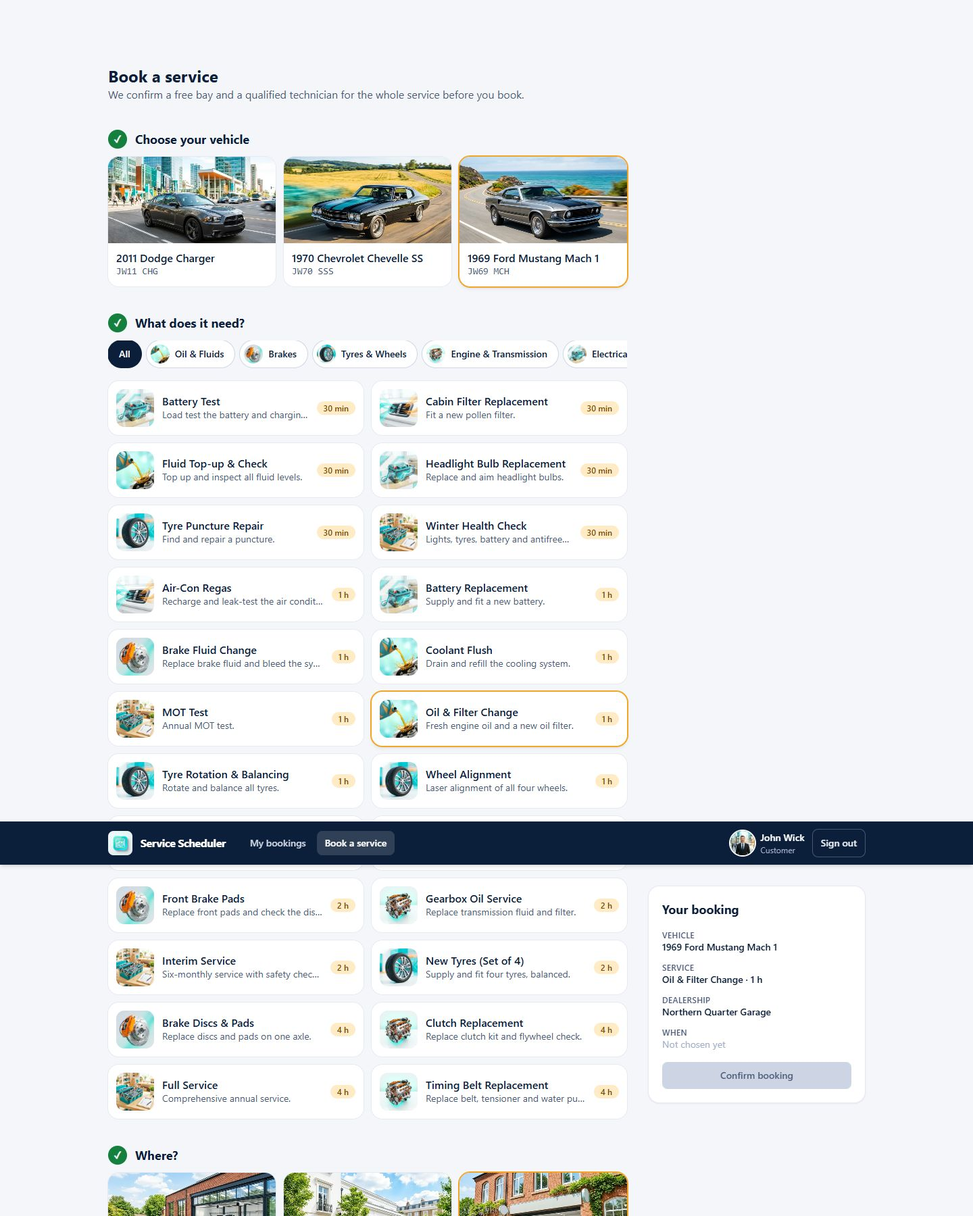
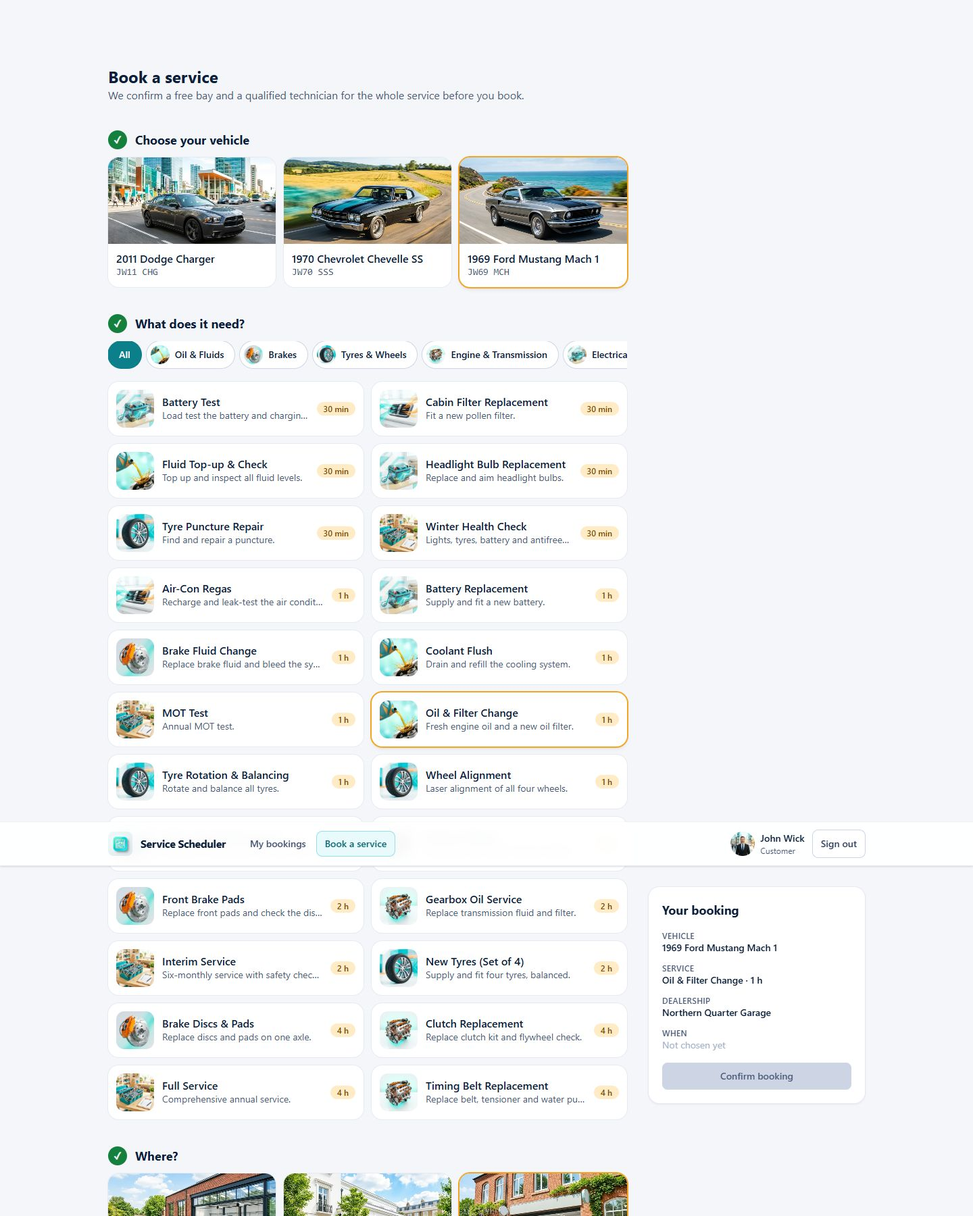
Light interface to match the bright photos; sign-in rules shown once; UI run repeatable (102 checks); docs and evidence

diff --git a/frontend/src/pages/Login.tsx b/frontend/src/pages/Login.tsx
@@ -35,12 +35,11 @@ export function Login() {
 
   return (
     <div className="grid min-h-screen lg:grid-cols-2">
-      <div className="relative hidden bg-ink-900 lg:block">
+      <div className="relative hidden bg-teal-50 lg:block">
         <Img k="app-hero" alt="A bright modern car workshop with mechanics and a booking calendar" className="absolute inset-0 size-full" />
-        <div className="absolute inset-x-0 bottom-0 h-3/5 bg-linear-to-t from-ink-900/85 via-ink-900/45 to-transparent" />
-        <div className="absolute inset-x-0 bottom-0 p-10 text-white">
-          <h2 className="max-w-md text-3xl font-bold leading-tight">A bay and a qualified technician, confirmed before you book.</h2>
-          <p className="mt-3 max-w-md text-ink-200">
+        <div className="absolute inset-x-8 bottom-8 max-w-lg rounded-2xl bg-white/90 p-6 text-ink-900 shadow-lg ring-1 ring-white backdrop-blur">
+          <h2 className="text-2xl font-bold leading-tight">A bay and a qualified technician, confirmed before you book.</h2>
+          <p className="mt-2 text-ink-700">
             No more phone tag. Pick your vehicle, the service and a time, and see instantly what the dealership can serve.
           </p>
         </div>
@@ -50,8 +49,7 @@ export function Login() {
         {/* Phones and tablets get their own portrait picture as a banner; wide screens use the large picture on the left. */}
         <div className="relative h-52 w-full overflow-hidden sm:h-64 lg:hidden">
           <Img k="app-hero-mobile" alt="A friendly mechanic in a bright modern workshop" className="size-full object-[50%_30%]" />
-          <div className="absolute inset-x-0 bottom-0 h-1/2 bg-linear-to-t from-ink-900/70 to-transparent" />
-          <p className="absolute inset-x-0 bottom-0 px-6 pb-4 text-lg font-bold leading-snug text-white sm:text-xl">
+          <p className="absolute inset-x-3 bottom-3 rounded-xl bg-white/90 px-4 py-2.5 text-base font-bold leading-snug text-ink-900 shadow backdrop-blur sm:inset-x-6 sm:bottom-4 sm:text-lg">
             A bay and a qualified technician, confirmed before you book.
           </p>
         </div>
@@ -145,8 +143,6 @@ export function Login() {
             </h2>
             <ul className="list-disc space-y-1.5 pl-5">
               <li>Customers and staff sign in on this page. Customers go to My bookings, staff to All bookings.</li>
-              <li>Username: up to {LIMITS.username} characters, case sensitive.</li>
-              <li>Password: up to {LIMITS.password} characters, case sensitive, and no spaces (no tabs or line breaks either).</li>
               <li>You stay signed in for 8 hours. On a shared computer, use Sign out when you finish.</li>
               <li>This is a demo: accounts are fixed and cannot be created, changed or reset here. The demo accounts are listed in the project README.</li>
             </ul>

diff --git a/frontend/src/components/Layout.tsx b/frontend/src/components/Layout.tsx
@@ -4,7 +4,7 @@ import { Avatar, Badge, Img } from './ui';
 
 const navClass = ({ isActive }: { isActive: boolean }) =>
   `rounded-lg px-3 py-2 text-sm font-semibold transition-colors ${
-    isActive ? 'bg-white/15 text-white' : 'text-ink-200 hover:bg-white/10 hover:text-white'
+    isActive ? 'bg-teal-50 text-teal-800 ring-1 ring-teal-200' : 'text-ink-600 hover:bg-ink-100 hover:text-ink-900'
   }`;
 
 export function Layout() {
@@ -13,7 +13,7 @@ export function Layout() {
 
   return (
     <div className="min-h-screen">
-      <header className="sticky top-0 z-20 bg-ink-900 text-white shadow-md">
+      <header className="sticky top-0 z-20 border-b border-ink-100 bg-white/95 text-ink-900 shadow-sm backdrop-blur">
         <div className="mx-auto flex max-w-6xl flex-wrap items-center gap-x-6 gap-y-2 px-4 py-3">
           <NavLink to="/" className="flex items-center gap-3">
             <Img k="app-logo" alt="" className="size-9 rounded-lg" />
@@ -36,7 +36,7 @@ export function Layout() {
               <Avatar k={user.imageKey} name={user.displayName} size={36} />
               <div className="hidden leading-tight sm:block">
                 <div className="text-sm font-semibold">{user.displayName}</div>
-                <div className="text-xs text-ink-300">{user.role === 'staff' ? 'Staff' : 'Customer'}</div>
+                <div className="text-xs text-ink-500">{user.role === 'staff' ? 'Staff' : 'Customer'}</div>
               </div>
               {user.role === 'staff' && (
                 <span className="sm:hidden">
@@ -46,7 +46,7 @@ export function Layout() {
             </div>
             <button
               onClick={signOut}
-              className="min-h-10 rounded-lg px-3 py-2 text-sm font-semibold text-ink-100 ring-1 ring-white/25 transition-colors hover:bg-white/10"
+              className="min-h-10 rounded-lg bg-white px-3 py-2 text-sm font-semibold text-ink-700 ring-1 ring-ink-200 transition-colors hover:bg-ink-50"
             >
               Sign out
             </button>

diff --git a/frontend/src/pages/Book.tsx b/frontend/src/pages/Book.tsx
@@ -13,7 +13,7 @@ function Step({ n, title, done, disabled, children }: { n: number; title: string
       <h2 id={`step-${n}`} className="mb-3 flex items-center gap-3 text-lg font-bold">
         <span
           className={`flex size-7 items-center justify-center rounded-full text-sm ${
-            done ? 'bg-ok-600 text-white' : 'bg-ink-900 text-white'
+            done ? 'bg-ok-600 text-white' : 'bg-teal-700 text-white'
           }`}
         >
           {done ? '✓' : n}
@@ -323,7 +323,7 @@ function CategoryChip({ active, onClick, label, imageKey }: { active: boolean; o
       onClick={onClick}
       aria-pressed={active}
       className={`flex shrink-0 items-center gap-2 rounded-full py-1.5 pr-4 text-sm font-semibold ring-1 transition-colors ${imageKey ? 'pl-1.5' : 'pl-4'} ${
-        active ? 'bg-ink-900 text-white ring-ink-900' : 'bg-white ring-ink-200 hover:bg-ink-50'
+        active ? 'bg-teal-700 text-white ring-teal-700' : 'bg-white ring-ink-200 hover:bg-ink-50'
       }`}
     >
       {imageKey && <Img k={imageKey} alt="" className="size-7 rounded-full" />}

diff --git a/frontend/src/pages/Dashboard.tsx b/frontend/src/pages/Dashboard.tsx
@@ -27,13 +27,13 @@ export function Dashboard() {
 
   return (
     <div className="space-y-6">
-      <section className="flex flex-wrap items-center justify-between gap-4 rounded-2xl bg-ink-900 p-5 text-white sm:p-6">
+      <section className="flex flex-wrap items-center justify-between gap-4 rounded-2xl bg-linear-to-r from-teal-100 via-teal-50 to-brand-100 p-5 text-ink-900 ring-1 ring-teal-200 sm:p-6">
         <div className="flex items-center gap-4">
           <Avatar k={user.imageKey} name={user.displayName} size={64} />
           <div>
-            <p className="text-sm text-ink-300">Welcome back</p>
+            <p className="text-sm text-ink-600">Welcome back</p>
             <h1 className="text-2xl font-bold leading-tight">{user.displayName}</h1>
-            <p className="text-sm text-ink-200">
+            <p className="text-sm text-ink-700">
               {groups.upcoming.length} upcoming · {groups.past.length} completed
             </p>
           </div>

diff --git a/frontend/index.html b/frontend/index.html
@@ -4,7 +4,7 @@
     <meta charset="UTF-8" />
     <meta name="viewport" content="width=device-width, initial-scale=1.0" />
     <meta name="description" content="Book dealership service appointments with a bay and a qualified technician confirmed in real time." />
-    <meta name="theme-color" content="#0b1f3a" />
+    <meta name="theme-color" content="#ffffff" />
     <link rel="icon" type="image/webp" href="/images/app-logo.webp" />
     <title>Service Scheduler</title>
   </head>

diff --git a/frontend/src/index.css b/frontend/src/index.css
@@ -13,6 +13,13 @@
   --color-ink-800: #172a4a;
   --color-ink-900: #0b1f3a;
 
+  /* Turquoise from the photographs: tints for light surfaces, 700 and 800 for text and fills that need contrast */
+  --color-teal-50: #e8fafb;
+  --color-teal-100: #c7f0f3;
+  --color-teal-200: #94e0e6;
+  --color-teal-700: #0b7f8a;
+  --color-teal-800: #0a6670;
+
   --color-brand-50: #fff8eb;
   --color-brand-100: #ffecc7;
   --color-brand-400: #fbb94a;

diff --git a/docs/IMPLEMENTATION_RESULTS.md b/docs/IMPLEMENTATION_RESULTS.md
@@ -22,7 +22,7 @@ What was built, how it differs from the design, what was tested and what was not
 | Observability | Structured logs, custom metrics, X-Ray tracing, dashboard, 5 alarms |
 | Reviewer can follow the README to build, run, test and deploy | Rehearsed from a fresh clone: install, build, unit tests, seed, integration tests (section 6) |
 | Boundary and pairwise testing | Done: 26 boundary tests and 38 pairwise rows in the integration suite, plus 55 boundary and 39 pairwise HTTP checks that also run on the live site (sections 5.2 and 5.3) |
-| Real UI testing | Claude in Chrome for exploratory runs, plus a repeatable Playwright run of 100 checks including text-box limits and accessibility scans (section 5.4) |
+| Real UI testing | Claude in Chrome for exploratory runs, plus a repeatable Playwright run of 102 checks including text-box limits and accessibility scans (section 5.4) |
 | Manual test cases for a person, by priority | [MANUAL_TEST_CASES.md](MANUAL_TEST_CASES.md): 14 must have, 21 should have, 12 nice to have |
 | Tools recorded | Google nano banana for images, Claude in Chrome and Playwright for the UI, Python and curl for the API (section 10, [TESTING.md](TESTING.md)) |
 
@@ -167,7 +167,7 @@ The race script fires every scenario at the same instant with a barrier. On the 
 
 A defect found and fixed during the first run: the "Sign out" text was too faint against the header. The staff list was also reordered so upcoming bookings come first.
 
-**Playwright regression, 100 of 100 passed** (`scripts/ui-regression/ui-run.mjs`, run twice to prove it cleans up after itself). It uses the case ids of the manual sheet: every Must-have customer and staff case, most Should-have cases and several Nice-to-have cases. Highlights:
+**Playwright regression, 102 of 102 passed, three runs in a row on the same data** (`scripts/ui-regression/ui-run.mjs`, run twice to prove it cleans up after itself). It uses the case ids of the manual sheet: every Must-have customer and staff case, most Should-have cases and several Nice-to-have cases. Highlights:
 
 - Two browser windows act as two people. Both reach the last free slot; window A confirms; window B is refused with the message and the four nearest times and books one of them.
 - Taken and overlapping times are greyed out while back-to-back times stay open; a vehicle booked elsewhere is greyed everywhere.
@@ -338,7 +338,7 @@ Run against https://asa-challenge.fibosolutions.com after the final deploy.
 |---|---|---|
 | API: smoke, API, race, boundary, pairwise and input-sweep scripts | agent | 10, 38, 11, 57, 39 and 55 checks pass |
 | Browser, no sign-in (`ui-public.mjs`): page load speed, security headers, HTTP to HTTPS, console and network cleanliness, images, accessibility scan, keyboard order, signed-out redirects, API 401 shapes, forged token, malformed input, phone width | agent | 25 of 25 pass (login page loaded in about 0.6 s) |
-| Browser, signed in (`ui-run.mjs`, 100 checks) or the manual sheet | author | not run by the agent: it does not type the demo passwords into the login form of a deployed site. The same 100 checks pass on the local app; the author runs them on production with one command (see [TESTING.md](TESTING.md) section 6) |
+| Browser, signed in (`ui-run.mjs`, 102 checks) or the manual sheet | author | not run by the agent: it does not type the demo passwords into the login form of a deployed site. The same 102 checks pass on the local app; the author runs them on production with one command (see [TESTING.md](TESTING.md) section 6) |
 | Infrastructure: metrics, alarms, traces, logs, certificate | agent | verified in section 12.4 |
 
 The API scripts and the browser run exercise the same code. The browser run adds the screens and the rendering, which is why it is the part left for a person to run on production.
@@ -366,7 +366,7 @@ The author's rule: a password has at most 32 characters and **no spaces**. It is
 
 ### 14.2 Sign-in page guidance
 
-Added at the author's request so customers and staff know the rules before they type. The page now has: a live counter on each box (`8 / 32`), the rule under each box (username up to 32 characters and case sensitive; password up to 32 characters, no spaces, case sensitive), a red warning the moment a password contains white space, a Show password option, and a **Sign-in help** panel (customers and staff use the same page and land on their own start page; the username and password rules; an 8 hour session and a reminder to sign out on a shared computer; this is a demo with fixed accounts that cannot be created or reset, listed in the README). The demo passwords are not shown on the page, so the gate keeps its purpose. Browser checks T-23 to T-26 and the public check P-22 cover it; the page still passes the accessibility scan and has no sideways scrolling at 390 px.
+Added at the author's request so customers and staff know the rules before they type. The page now has: a live counter on each box (`8 / 32`), the rule under each box (username up to 32 characters and case sensitive; password up to 32 characters, no spaces, case sensitive), a red warning the moment a password contains white space, a Show password option, and a **Sign-in help** panel (customers and staff use the same page and land on their own start page; an 8 hour session and a reminder to sign out on a shared computer; this is a demo with fixed accounts that cannot be created or reset, listed in the README). The demo passwords are not shown on the page, so the gate keeps its purpose. Browser checks T-23 to T-26 and the public check P-22 cover it; the page still passes the accessibility scan and has no sideways scrolling at 390 px.
 
 ### 14.3 Browser sign-in on deployed hosts
 
@@ -388,3 +388,15 @@ After the cinematic set the author found the screens too dark and asked for a br
 Changes in the code: the sign-in page shows the portrait banner below the large-screen breakpoint and the wide photo above it, with a lighter text scrim on the wide photo. Square and 4:3 images (avatars, cards, thumbnails) are used at every size and were generated once. File names are unchanged apart from the new `app-hero-mobile`. Checks added: the phone shows the banner and hides the desktop photo, the tablet shows the banner without sideways scrolling, and wide screens show the large photo and hide the banner. The full 100-check UI run, the accessibility scans and the public checks pass with the new art.
 
 Still dark by design: the navigation bar and the welcome card on the dashboard use the deep navy of the colour scheme. They are interface colours, not images; they can be lightened if the author wants the whole interface brighter.
+
+### 14.4 Duplicate rule text on the sign-in page (found by the author)
+
+The username and password rules were printed under each box and again in the Sign-in help panel. They now appear once, under the boxes, where people need them; the panel keeps who signs in, the session length and the demo note. A check (T-27) fails if the rules are repeated.
+
+## 16. Light interface
+
+The author asked for the interface to be lightened to match the bright photographs. Changes: the navigation bar is white with dark text and a soft shadow (it was deep navy); the active menu item is turquoise; the dashboard welcome card is a turquoise-to-warm gradient with dark text (it was a solid navy block); step numbers and the selected category chip use turquoise; on the sign-in page the caption on the wide photo is a light frosted card instead of a dark scrim, and on phones the banner caption is a light pill. Turquoise tokens were added to `index.css`; the amber action colour is unchanged. A measured check (N-15) confirms the bar is light with dark text and the welcome card is a gradient with dark text, and the accessibility scans still pass with no violations.
+
+### 16.1 A flaw found in the UI run itself
+
+While re-running the suite many times the staff-cancel step consumed one of James's seeded upcoming bookings on every run, so repeated runs without a reseed eventually failed (the "James sees only his own cars" check found an empty list). The step now creates its own booking through the API and cancels that one, and a dealership-tile wait was made explicit. Three consecutive runs on the same data pass 102 of 102, which is what the earlier claim that the run can be repeated now actually means.

diff --git a/docs/TESTING.md b/docs/TESTING.md
@@ -8,7 +8,7 @@ How the project is tested, which tools were used, how to run every suite, and ho
 |---|---|---|
 | Images and thumbnails (38: portraits, places, cars, service art, logo, desktop and mobile hero) | **Google "nano banana" (Gemini image models, `gemini-3.1-flash-image`)** through Alice's image skill | One shared bright, modern style prompt keeps the set consistent. Each image is checked by eye on a contact sheet, then converted to WebP. File names are fixed, so changing the art needs no code change |
 | Real UI testing | **Claude in Chrome**, driven by Alice | Opens the real app in the author's Chrome, signs in as each role, books, cancels, reads the page and captures screenshots. Used on the local app. Browser sign-in on the deployed site is left to the author |
-| Repeatable UI regression | **Playwright** (headless Chromium), `scripts/ui-regression/` | 100 checks that mirror the manual cases, including two browser windows racing for one slot, phone width, keyboard-only sign-in, a broken-image check, a throttled-request message and an automated accessibility scan (axe, WCAG 2.1 A and AA). Optional, with its own `package.json` |
+| Repeatable UI regression | **Playwright** (headless Chromium), `scripts/ui-regression/` | 102 checks that mirror the manual cases, including two browser windows racing for one slot, phone width, keyboard-only sign-in, a broken-image check, a throttled-request message and an automated accessibility scan (axe, WCAG 2.1 A and AA). Optional, with its own `package.json` |
 | API black-box and rare cases | **Python scripts** (standard library only) in `scripts/` | Login, roles, validation, boundaries, pairwise, concurrency, post-deploy smoke test. Run against local or live |
 | Unit and integration | **Vitest** with DynamoDB Local in Docker | Includes the parallel-booking tests, boundary tests and pairwise tests |
 | Manual API calls | `curl` or PowerShell `Invoke-RestMethod` | Examples below |
@@ -25,7 +25,7 @@ How the project is tested, which tools were used, how to run every suite, and ho
 | Input sweep (every text field and parameter) | `python scripts/input_tests.py --base-url <url>` | seeded data | yes (creates no bookings) |
 | Pairwise over HTTP | `python scripts/pairwise_tests.py --base-url <url>` | seeded data | yes |
 | Post-deploy smoke | `python scripts/smoke_test.py --base-url <url>` | deployed site | yes |
-| UI regression, full (100 checks) | see section 6 | local app running, or the deployed site run by you | local by the agent; production by the author (section 6) |
+| UI regression, full (102 checks) | see section 6 | local app running, or the deployed site run by you | local by the agent; production by the author (section 6) |
 | UI public (29 checks, no sign-in) | `node scripts/ui-regression/ui-public.mjs <url>` | nothing | yes |
 
 `<url>` is `http://localhost:3000` for the API on your machine, or the site address. Every script cancels the bookings it makes. All Python scripts exit with code 1 when a check fails, so they can run in CI.
@@ -163,7 +163,7 @@ Alice opened the app in real Chrome, signed in as John Wick, James Bond and Wins
 ### On the deployed site
 
 - **Without a sign-in** (the agent runs this on production): `cd scripts/ui-regression && npm install && node ui-public.mjs https://asa-challenge.fibosolutions.com`. 29 checks: the login page loads and is quick, explains the password and username rules, HSTS, CSP and the other security headers, `http://` redirects to `https://`, no console errors, no failed requests, all images load, no accessibility violations, keyboard order, signed-out redirects for `/`, `/book` and unknown addresses, an invalid saved token, every protected API route answers 401, a forged token is refused, malformed input is a 400, the phone-width layout, and that phones and tablets get the portrait banner while wide screens get the large photo.
-- **With a sign-in** (run by the author): the full 100-check run needs the demo passwords typed into the login form, which the agent does not do on a deployed site. Run it yourself from the same folder: `node ui-run.mjs https://asa-challenge.fibosolutions.com ./shots` (set `CHROME_PATH` if you do not want to download a browser). It cancels what it books and takes about two minutes. The manual sheet [MANUAL_TEST_CASES.md](MANUAL_TEST_CASES.md) covers the same ground by hand.
+- **With a sign-in** (run by the author): the full 102-check run needs the demo passwords typed into the login form, which the agent does not do on a deployed site. Run it yourself from the same folder: `node ui-run.mjs https://asa-challenge.fibosolutions.com ./shots` (set `CHROME_PATH` if you do not want to download a browser). It cancels what it books, can be repeated straight away (the staff-cancel step books and cancels its own appointment instead of using seeded data) and takes about two minutes. The manual sheet [MANUAL_TEST_CASES.md](MANUAL_TEST_CASES.md) covers the same ground by hand.
 - **API** on the deployed site: all five Python suites are run by the agent (section 2); they call the API directly and do not use the login form.
 
 ### With Playwright (repeatable)
@@ -178,7 +178,7 @@ node ui-run.mjs http://localhost:5173 ./shots
 
 Optional: `CHROME_PATH=<chrome.exe>` uses an existing browser instead of the downloaded one. The run prints PASS or FAIL per case id (the same ids as the manual sheet), writes screenshots and `results.json` to the folder, cancels the bookings it created and exits 1 on any failure. It can be run repeatedly.
 
-What the 100 checks include: every Must-have customer and staff case, most Should-have cases, keyboard-only sign-in (Tab, type, Enter), deep-link reload, an invalid token, a check that every image on the booking page loads, no sideways scrolling at 390 px on four pages, and a **two-window race**: window A and window B both reach the last free slot, A confirms first, B then sees the conflict message with the four nearest times and books one of them.
+What the 102 checks include: every Must-have customer and staff case, most Should-have cases, keyboard-only sign-in (Tab, type, Enter), deep-link reload, an invalid token, a check that every image on the booking page loads, no sideways scrolling at 390 px on four pages, and a **two-window race**: window A and window B both reach the last free slot, A confirms first, B then sees the conflict message with the four nearest times and books one of them.
 
 ## 7. Defects found by testing
 

diff --git a/docs/MANUAL_TEST_CASES.md b/docs/MANUAL_TEST_CASES.md
@@ -6,7 +6,7 @@ For a quick manual check of the live site by a person. Cases are ordered by prio
 |---|---|---|---|
 | **Must have** | The product is not usable or not safe if one fails | 15 | 20 to 25 minutes |
 | **Should have** | Important rules and everyday behaviour | 26 | 35 minutes |
-| **Nice to have** | Polish, accessibility and edge behaviour | 14 | 20 minutes |
+| **Nice to have** | Polish, accessibility and edge behaviour | 15 | 20 minutes |
 
 Mark each result in the **Result** column: `P` pass, `F` fail, `-` skipped. Write failures down with the case ID and what you saw.
 
@@ -86,7 +86,7 @@ Services used below: **Oil & Filter Change** (60 min, Oil & Fluids), **Fluid Top
 | C-S14 | Qualified technician limit | Choose **Wheel Alignment** at Brum Auto Centre. Book it at DAY 10:00 with John, then try **Tyre Rotation & Balancing** at 10:00 with James. | The second is refused: Brum has only one tyre specialist, even though a bay is free. | |
 | C-S15 | Completed tab | Open the **Completed** tab. | Past bookings are listed with a "Completed" badge and no Cancel button. | |
 | C-S16 | Book another | After a confirmation, click **Book another**. | Wizard resets to an empty selection. | |
-| C-S19 | Sign-in help and live feedback | On the login page read the **Sign-in help** panel. Type a few characters in each box. Type a space in the password box, then delete it. Tick **Show password**. | Each box shows a counter such as `5 / 32` and its rule underneath. A red message appears as soon as the password has a space and goes when you remove it. Show password reveals the text and un-ticking hides it. The panel says who signs in, the username and password rules, the 8 hour session and that this is a demo. | |
+| C-S19 | Sign-in help and live feedback | On the login page read the **Sign-in help** panel. Type a few characters in each box. Type a space in the password box, then delete it. Tick **Show password**. | Each box shows a counter such as `5 / 32` and its rule underneath. A red message appears as soon as the password has a space and goes when you remove it. Show password reveals the text and un-ticking hides it. The panel says who signs in, the 8 hour session and that this is a demo; the username and password rules appear once, under their boxes (not repeated in the panel). | |
 | C-S18 | Username and password limit (negative) | On the login page type 40 characters into Username, then into Password. Then type exactly 32 characters in each and sign in. | Each box stops at 32 characters. With 32 characters in each the page answers "Incorrect username or password" (not an error screen). | |
 | C-S17 | Date suggestion skips closed days | On a Saturday, open the booking page and choose a vehicle, a service and a dealership without touching the date. | The date moves from Sunday to the next open day (Monday). If you pick a date yourself it is never changed for you. | |
 
@@ -117,6 +117,7 @@ Services used below: **Oil & Filter Change** (60 min, Oil & Fluids), **Fluid Top
 | N-07 | Both | HTTPS | On the live site check the address bar. Try `http://asa-challenge.fibosolutions.com`. | Padlock shown; http redirects to https. | |
 | N-08 | Customer | Many bookings | Make 3 bookings on different days, then check ordering. | Upcoming is soonest first; Completed is most recent first. | |
 | N-09 | Customer | Pictures | Look at login, vehicles, dealerships, technicians. | Bright, modern images load; no broken image icons. | |
+| N-15 | Both | Light interface | Look at the navigation bar and the dashboard welcome card on a customer account. | White navigation bar with dark text and a light turquoise-to-warm gradient welcome card with dark text; no dark blocks. | |
 | N-14 | Both | Phone and desktop pictures | Open the login page on a phone (or a narrow window) and on a wide screen. | Phone: a portrait banner of a mechanic above the form. Wide screen: the large workshop photo on the left, no banner. | |
 | N-10 | Customer | Long service end time | Book Full Service (240 min). | Confirmation shows start to end four hours later in local time. | |
 | N-11 | Staff | Customer names and photos | Check the Customer column on All bookings. | Correct name and portrait for each booking. | |

diff --git a/docs/SYSTEM_DESIGN.md b/docs/SYSTEM_DESIGN.md
@@ -317,6 +317,7 @@ Mutation checks confirm the tests can fail: the database lock writes were broken
 - **Style:** bright, modern, dynamic editorial photography: natural daylight, high-key exposure, fresh turquoise and teal with warm orange accents, airy light backgrounds, crisp focus and energetic angles. No night scenes, heavy shadows, fog or film grain. One shared style prompt is appended to every image so the set reads as one family. Each group has its own scene: customers in sunlit city, rooftop and hotel settings, technicians in a clean white service bay with turquoise accents, dealerships under blue skies, each car on its own sunny road with a hint of motion blur, service categories as clean product shots with a splash of colour.
 - **People:** fictional photographic portraits inspired by the roles, never a real person's likeness; prompts name no actor. Technicians are generic fictional mechanics in modern navy and teal work jackets.
 - **Mobile and desktop:** the sign-in page uses the wide photo on the left on large screens and a separate portrait photo as a banner on phones and tablets. Cards, avatars and thumbnails are square or 4:3 and are used at every size (they are sized by the layout, not generated twice).
+- **Interface colours:** the interface is light to match the photographs: a white navigation bar with dark text, a turquoise-to-warm gradient welcome card with dark text, turquoise for active navigation, step badges and chips, and the amber accent for the main action. The deep navy of the first design survives only as the text colour. Colour tokens are in `frontend/src/index.css`.
 - **Where images appear:** user avatar in the header and dashboard, vehicle cards, dealership cards in the booking flow, technician and bay thumbnails on each confirmed appointment, service category art, sign-in photo and banner, empty states.
 - **Delivery:** WebP, sized for the screen, with text alternatives. Each record stores an image key, so replacing art needs no code change. The set is 38 files, about 1.1 MB.
 

diff --git a/README.md b/README.md
@@ -26,7 +26,7 @@ An appointment scheduler for car dealerships that replaces manual booking. A cus
 | `JamesBond` | `JamesBond` | customer (James Bond) |
 | `Winston` | `Winston` | staff (Winston Scott) |
 
-The sign-in page explains the rules next to the boxes (live character counters, "no spaces" for passwords with an immediate warning, a show-password option) and has a Sign-in help panel: who signs in, the username and password rules, the 8 hour session and that this is a demo with fixed accounts. The login keeps the public API closed to casual visitors. It suits a demo; a production product would use a managed identity provider.
+The sign-in page explains the rules next to the boxes (live character counters, "no spaces" for passwords with an immediate warning, a show-password option) and has a Sign-in help panel: who signs in, the 8 hour session and that this is a demo with fixed accounts (the username and password rules are shown once, under the boxes). The login keeps the public API closed to casual visitors. It suits a demo; a production product would use a managed identity provider.
 
 ### Demo data
 
@@ -94,7 +94,7 @@ The same Python scripts run unchanged against the deployed site (`--base-url htt
 npm run dev                                   # in one terminal
 cd scripts/ui-regression
 npm install && npx playwright install chromium
-node ui-run.mjs http://localhost:5173 ./shots # 100 checks, screenshots in ./shots, exit code 1 on failure
+node ui-run.mjs http://localhost:5173 ./shots # 102 checks, screenshots in ./shots, exit code 1 on failure
 ```
 
 ### Manual test cases

diff --git a/docs/test-evidence/README.md b/docs/test-evidence/README.md
@@ -16,7 +16,7 @@ Results from the author's runs (Alice). Full detail, tool notes and method: [../
 | `scripts/pairwise_tests.py` | local and live | 39 of 39 |
 | `scripts/smoke_test.py` | live | 10 of 10 |
 | `scripts/ui-regression/ui-public.mjs` (browser, no sign-in) | **live** 29 of 29 after the final deploy; local 27 of 27 |
-| Playwright UI regression (`scripts/ui-regression`) | local app | 100 of 100 (includes the sign-in help, live password feedback, the text box limits and hostile input, staff search, date suggestion, throttled message and WCAG 2.1 AA scans of four screens) |
+| Playwright UI regression (`scripts/ui-regression`) | local app | 102 of 102 (includes the light-interface measurement, the sign-in help, live password feedback, the text box limits and hostile input, staff search, date suggestion, throttled message and WCAG 2.1 AA scans of four screens) |
 
 "Live" is `https://asa-challenge.fibosolutions.com` on AWS (CloudFront, API Gateway, Lambda, DynamoDB).
 
